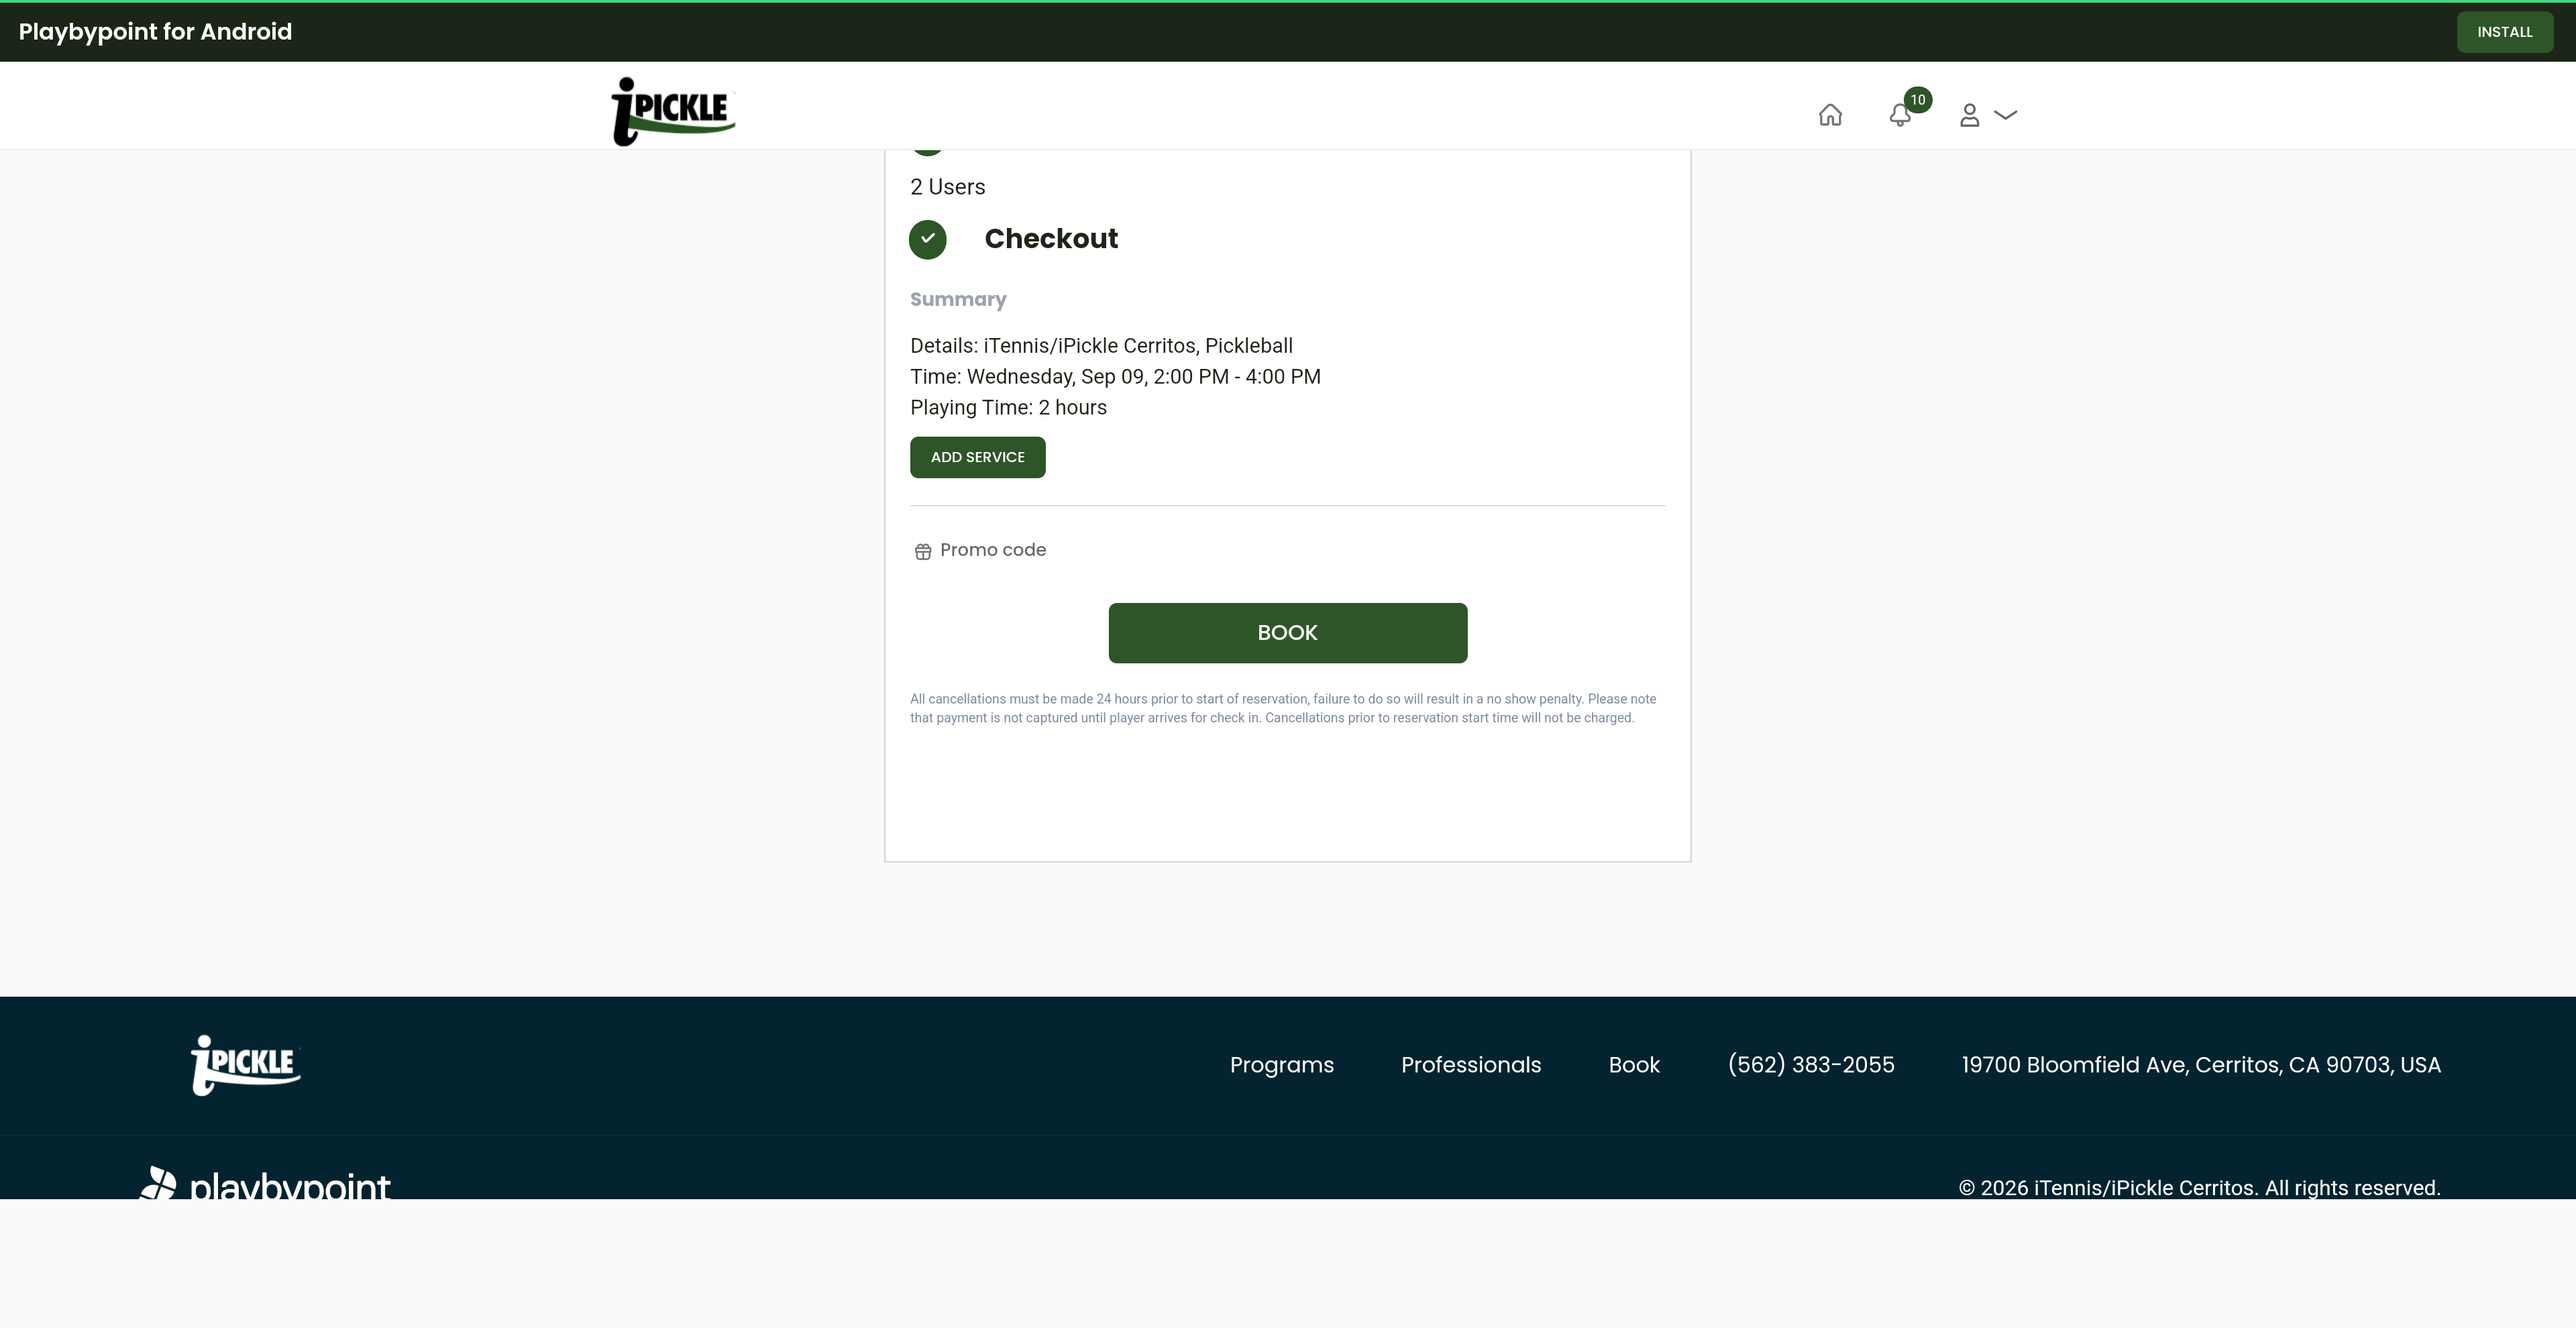
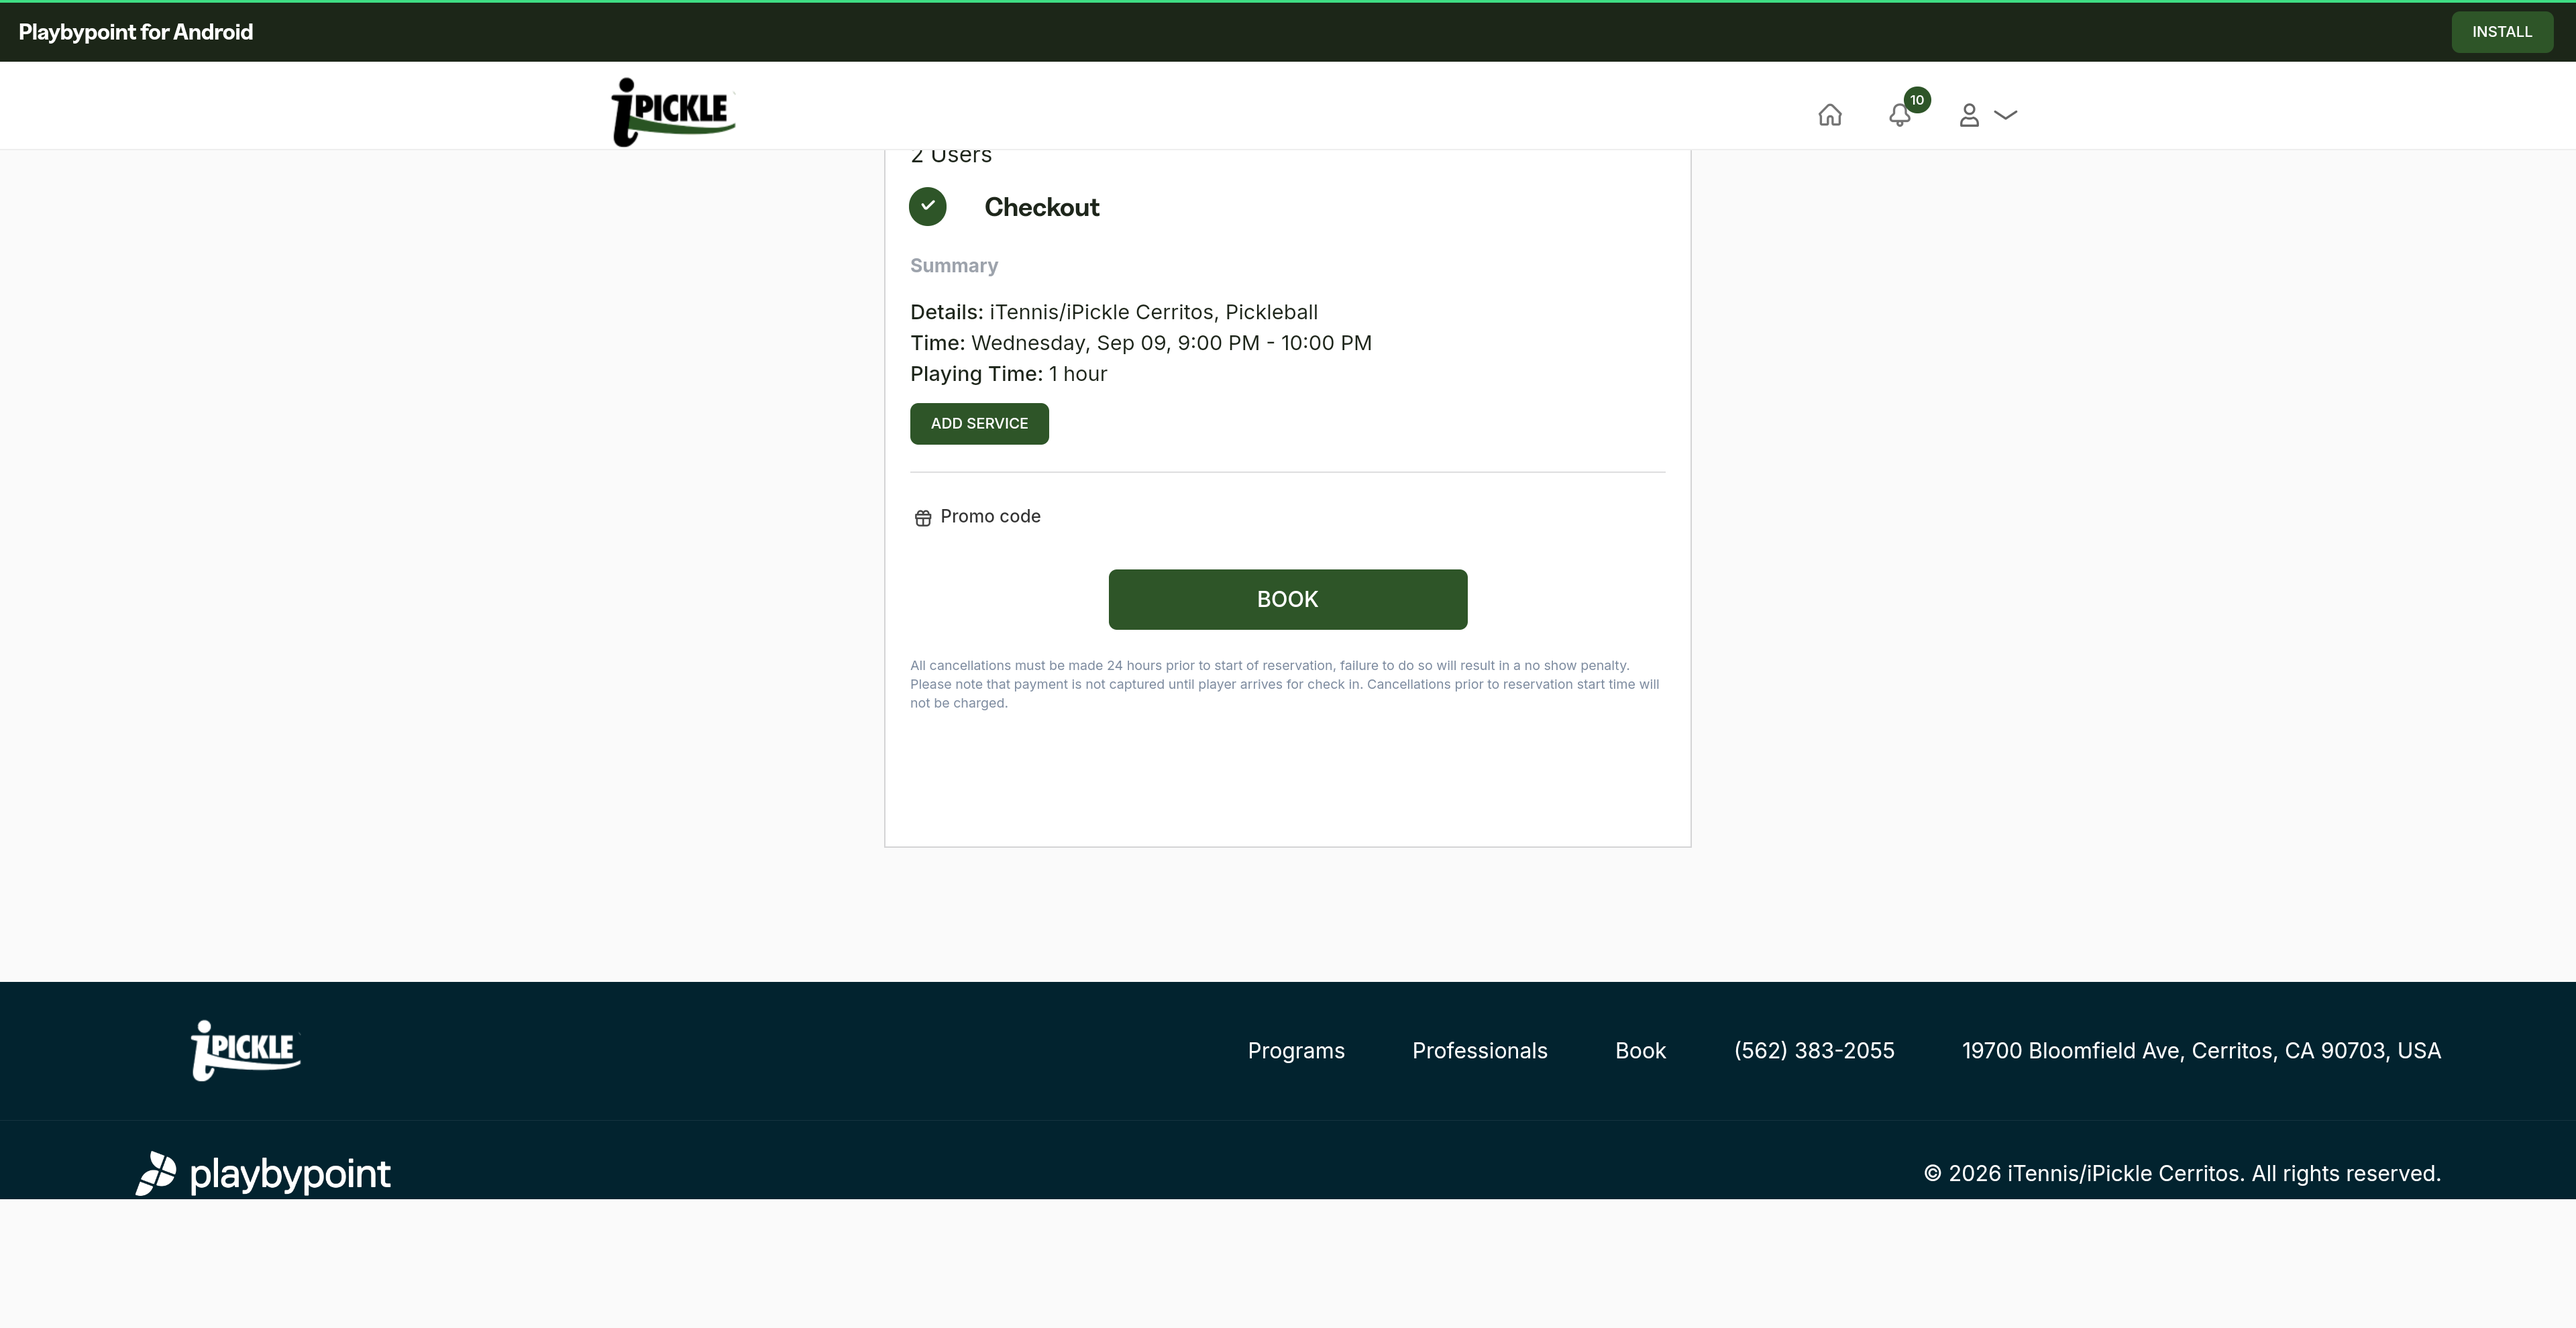
logic to only select consecutive courts

diff --git a/src/browser/book-reservation.ts b/src/browser/book-reservation.ts
@@ -131,8 +131,14 @@ async function clickXPathFast(
       const element = elements[0];
 
       if (name == "Add Secondary") {
-        await browser.pause(1000);
+        await browser.pause(750);
       }
+
+      await element.scrollIntoView({
+        behavior: "instant",
+        block: "center",
+        inline: "nearest",
+      });
 
       await browser.execute((el) => {
         (el as HTMLElement).click();
@@ -177,12 +183,21 @@ export async function bookReservation(
   );
 
   // click the times
+  let initialBook = false;
   for (const time of desiredTimes) {
-    await clickXPathFast(
+    let clicked = await clickXPathFast(
       browser,
       time,
       desiredTimePath(time),
     );
+    console.log(`${time}: ${clicked}`)
+    if (clicked) {
+      initialBook = true;
+    } else {
+      if (initialBook) {
+        break;
+      }
+    }
   }
 
   // click courts

diff --git a/src/browser/main.ts b/src/browser/main.ts
@@ -30,9 +30,9 @@ type BrowserWorkflowStep = {
 
 export const bookingInputs: ReservationInputs = {
   courtHierarchy: ["4", "3","8","9","2", "6", "1", "5", "10", "7"],
-  // desiredTimes: ["7:30-8pm", "8-8:30pm", "8:30-9pm", "9-9:30pm"],
-  desiredTimes: ['2-2:30pm','2:30-3pm','3-3:30pm','3:30-4pm'],
-  secondary: "Paul Rodriguez",
+  desiredTimes: ["8-8:30pm", "8:30-9pm", "9-9:30pm", "9:30-10pm"],
+  // desiredTimes: ['2-2:30pm','2:30-3pm','3-3:30pm','3:30-4pm'],
+  secondary: "philip pham",
 };
 
 export const availableSteps: Record<string, BrowserWorkflowStep> = {

diff --git a/src/browser/login.ts b/src/browser/login.ts
@@ -83,6 +83,7 @@ export async function logInToPlayByPoint(browser: Browser) {
   }
 
   await browser.url(loginUrl);
+  await browser.pause(5000);
 
   await typeIntoSelector(
     browser,
